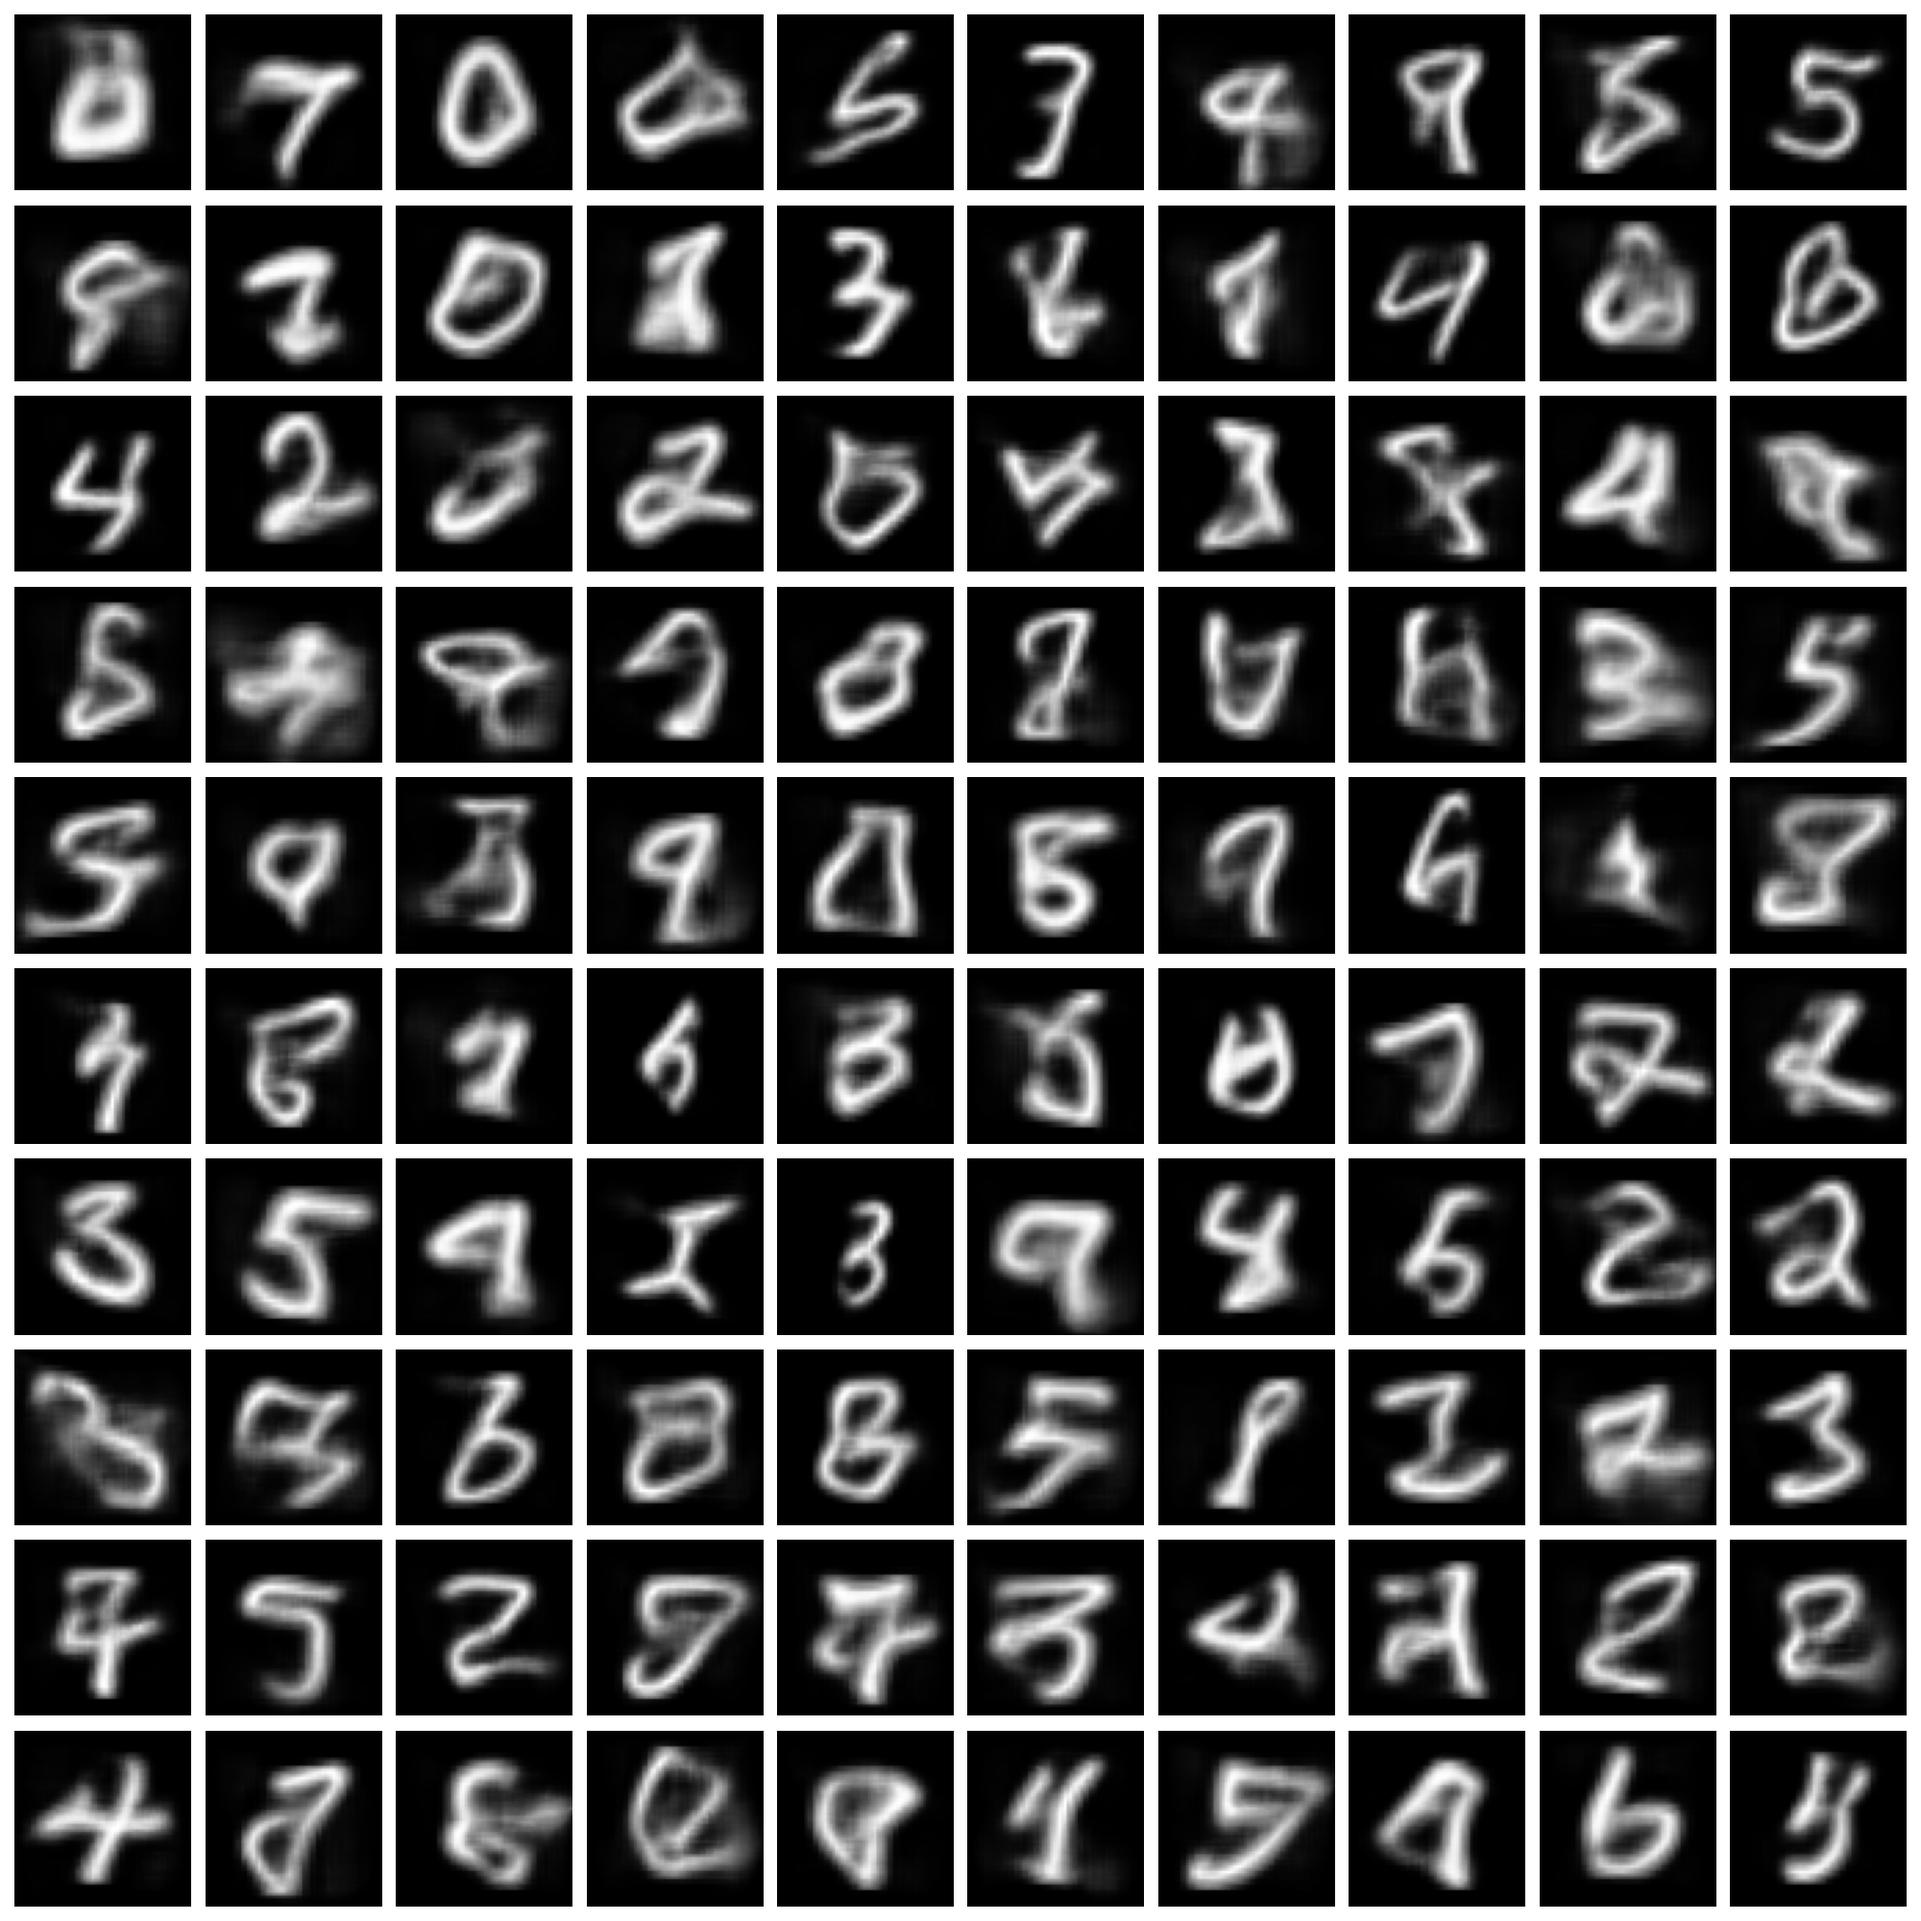
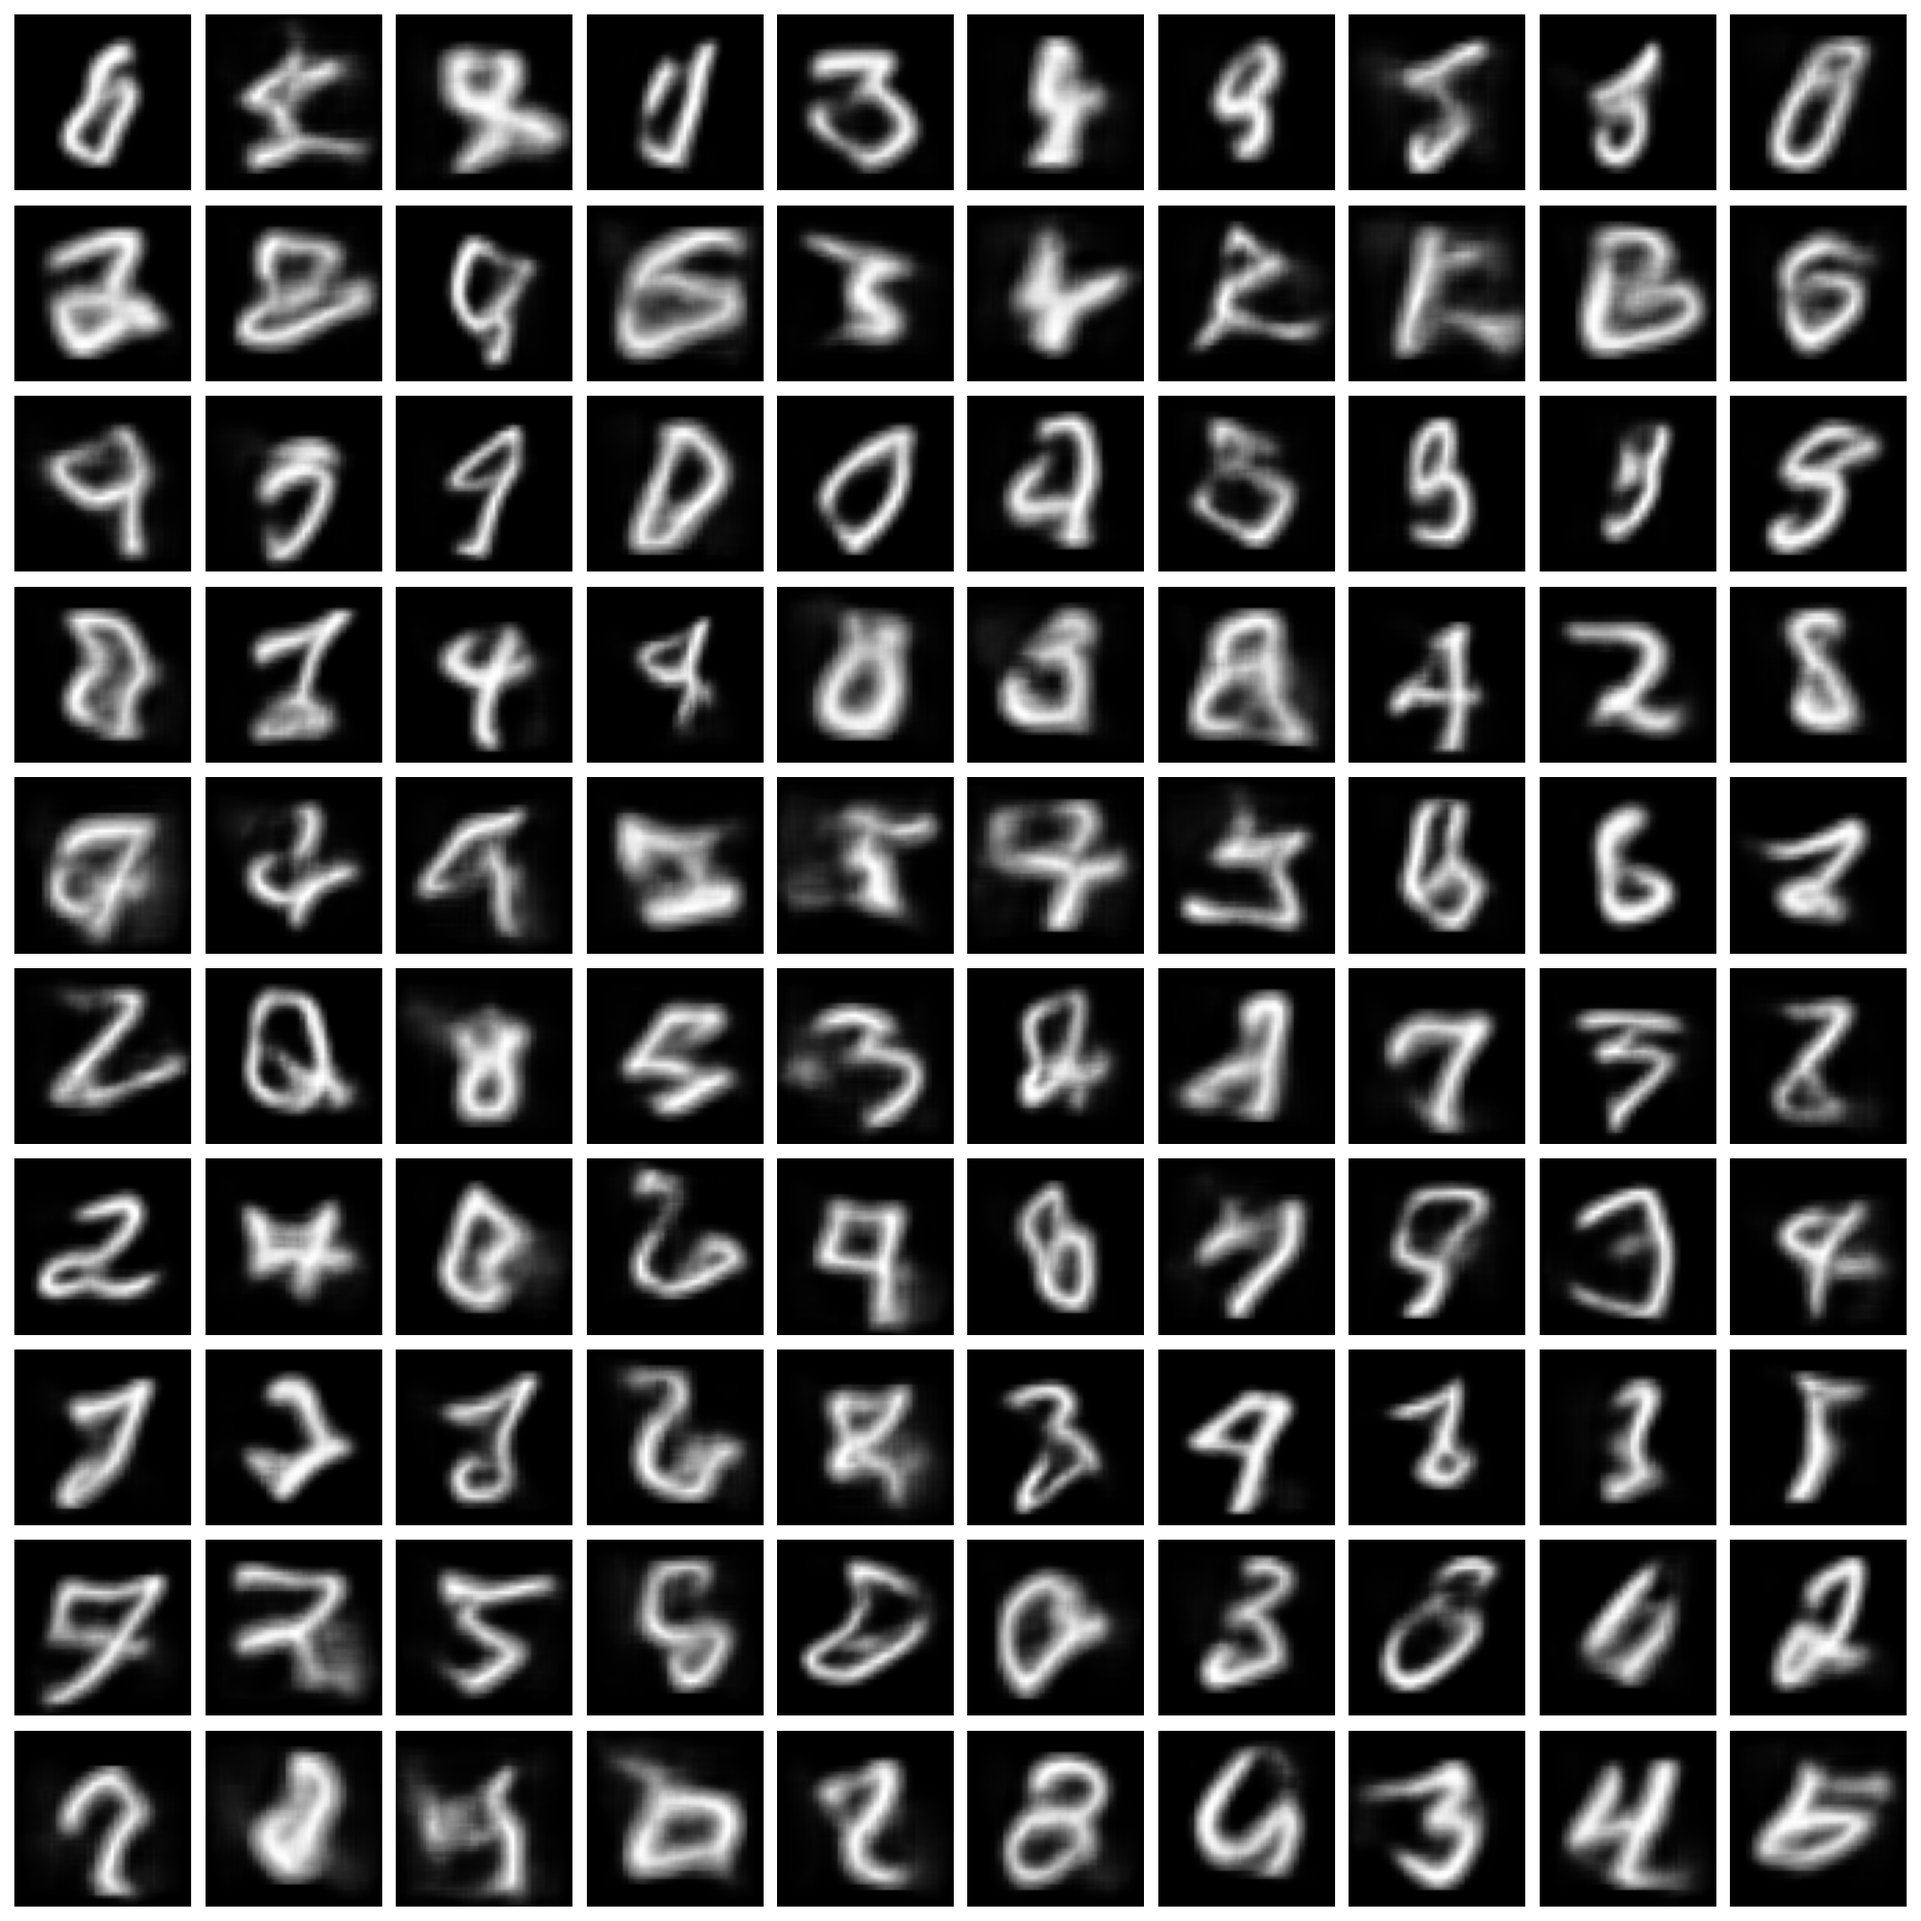
Multivariate gaussian random sampling

diff --git a/Sources/code/other/random_samples.py b/Sources/code/other/random_samples.py
@@ -33,7 +33,7 @@ print("Uniforme")
 z_min = np.min(z_train, axis=0)
 z_max = np.max(z_train, axis=0)
 
-num_samples = 10000
+num_samples = 1000
 sampled_latents = np.random.uniform(low=z_min, high=z_max, size=(num_samples, z_train.shape[1]))
 
 decoded_images = autoencoder.decoder.predict(sampled_latents)
@@ -55,7 +55,7 @@ print("Prior")
 z_min = np.min(z_train, axis=0)
 z_max = np.max(z_train, axis=0)
 
-num_samples = 10000
+num_samples = 1000
 sampled_latents = np.random.normal(size=(num_samples, z_train.shape[1]))
 
 decoded_images = autoencoder.decoder.predict(sampled_latents)
@@ -70,11 +70,11 @@ for i in range(100):
 plt.tight_layout()
 plt.savefig(cache.RESULTS_FOLDER / "RandomSamples" / "mnist-random-samples-prior.png")
 
-# VAE Distribution
+# Nearing a digit
 
-print("Distribution du VAE")
+print("Alentours d'un chiffre")
 
-num_samples = 10000
+num_samples = 1000
 idx = np.random.choice(len(z_mean), num_samples, replace=True)
 epsilon = np.random.normal(size=(num_samples, z_mean.shape[1]))
 sampled_latents = z_mean[idx] + np.exp(0.5 * z_logvar[idx]) * epsilon
@@ -88,7 +88,27 @@ for i in range(100):
     plt.imshow(decoded_images[idx[i]].squeeze(), cmap="gray")
     ax.axis("off")
 plt.tight_layout()
-plt.savefig(cache.RESULTS_FOLDER / "RandomSamples" / "mnist-random-samples-vaeprior.png")
+plt.savefig(cache.RESULTS_FOLDER / "RandomSamples" / "mnist-random-samples-nearing.png")
+
+# VAE Distribution
+
+print("Distribution du VAE")
+
+num_samples = 1000
+z_mean = np.mean(z_train, axis=0)
+z_cov = np.cov(z_train.T)
+sampled_latents = np.random.multivariate_normal(z_mean, z_cov, size=num_samples)
+decoded_images = autoencoder.decoder.predict(sampled_latents)
+
+idx = np.random.choice(len(decoded_images), 100, replace=False)
+
+plt.figure(figsize=(20, 20))
+for i in range(100):
+    ax = plt.subplot(10, 10, i + 1)
+    plt.imshow(decoded_images[idx[i]].squeeze(), cmap="gray")
+    ax.axis("off")
+plt.tight_layout()
+plt.savefig(cache.RESULTS_FOLDER / "RandomSamples" / "mnist-random-samples-mg.png")
 
 # Gaussian Mixture
 
@@ -98,7 +118,7 @@ n_components = 25
 gmm = GaussianMixture(n_components=n_components, covariance_type='full', random_state=42, verbose=True)
 gmm.fit(z_train)
 
-num_samples = 10000
+num_samples = 1000
 sampled_latents, _ = gmm.sample(num_samples)
 
 decoded_images = autoencoder.decoder.predict(sampled_latents)

diff --git a/Sources/code/other/random_class.py b/Sources/code/other/random_class.py
@@ -1,0 +1,62 @@
+import numpy as np
+import tensorflow as tf
+import matplotlib.pyplot as plt
+from keras.datasets import mnist
+
+from code.utils import cache, latent, utils, models
+
+np.random.seed(42)
+tf.keras.utils.set_random_seed(42)
+
+(x_train, y_train), (x_test, y_test) = mnist.load_data()
+
+x_train, x_test = utils.preprocess_dataset(x_train, x_test)
+
+autoencoder, _ = models.select_model(models.list_models(
+    criteria={"type": "autoencoder", "labels": False, "dataset_range": (0, 1)}
+))
+
+z_train = latent.encode(
+    autoencoder,
+    x=x_train,
+    y=y_train,
+    n_times=2,
+    save_cache=True
+)
+
+latent_dim = z_train.shape[1]
+
+num_classes = 10
+num_cols = 10
+
+fig, axes = plt.subplots(num_classes, num_cols, figsize=(num_cols, num_classes))
+for i in range(num_classes):
+    z_mean = np.mean(z_train[y_train == i], axis=0)
+    z_std = np.std(z_train[y_train == i], axis=0)
+
+    for j in range(num_cols):
+        z_sample = z_mean + z_std * np.random.randn(1, latent_dim)
+
+        generated_img = autoencoder.decoder(z_sample).numpy()
+
+        axes[i, j].imshow(generated_img.squeeze(), cmap='gray')
+        axes[i, j].axis('off')
+
+plt.tight_layout()
+plt.savefig(cache.RESULTS_FOLDER / "RandomSamples" / "normal-class-samples.png")
+
+fig, axes = plt.subplots(num_classes, num_cols, figsize=(num_cols, num_classes))
+for i in range(num_classes):
+    z_mean = np.mean(z_train[y_train == i], axis=0)
+    z_cov = np.cov(z_train[y_train == i].T)
+
+    for j in range(num_cols):
+        z_sample = np.random.multivariate_normal(z_mean, z_cov, size=1)
+
+        generated_img = autoencoder.decoder(z_sample).numpy()
+
+        axes[i, j].imshow(generated_img.squeeze(), cmap='gray')
+        axes[i, j].axis('off')
+
+plt.tight_layout()
+plt.savefig(cache.RESULTS_FOLDER / "RandomSamples" / "mg-class-samples.png")
